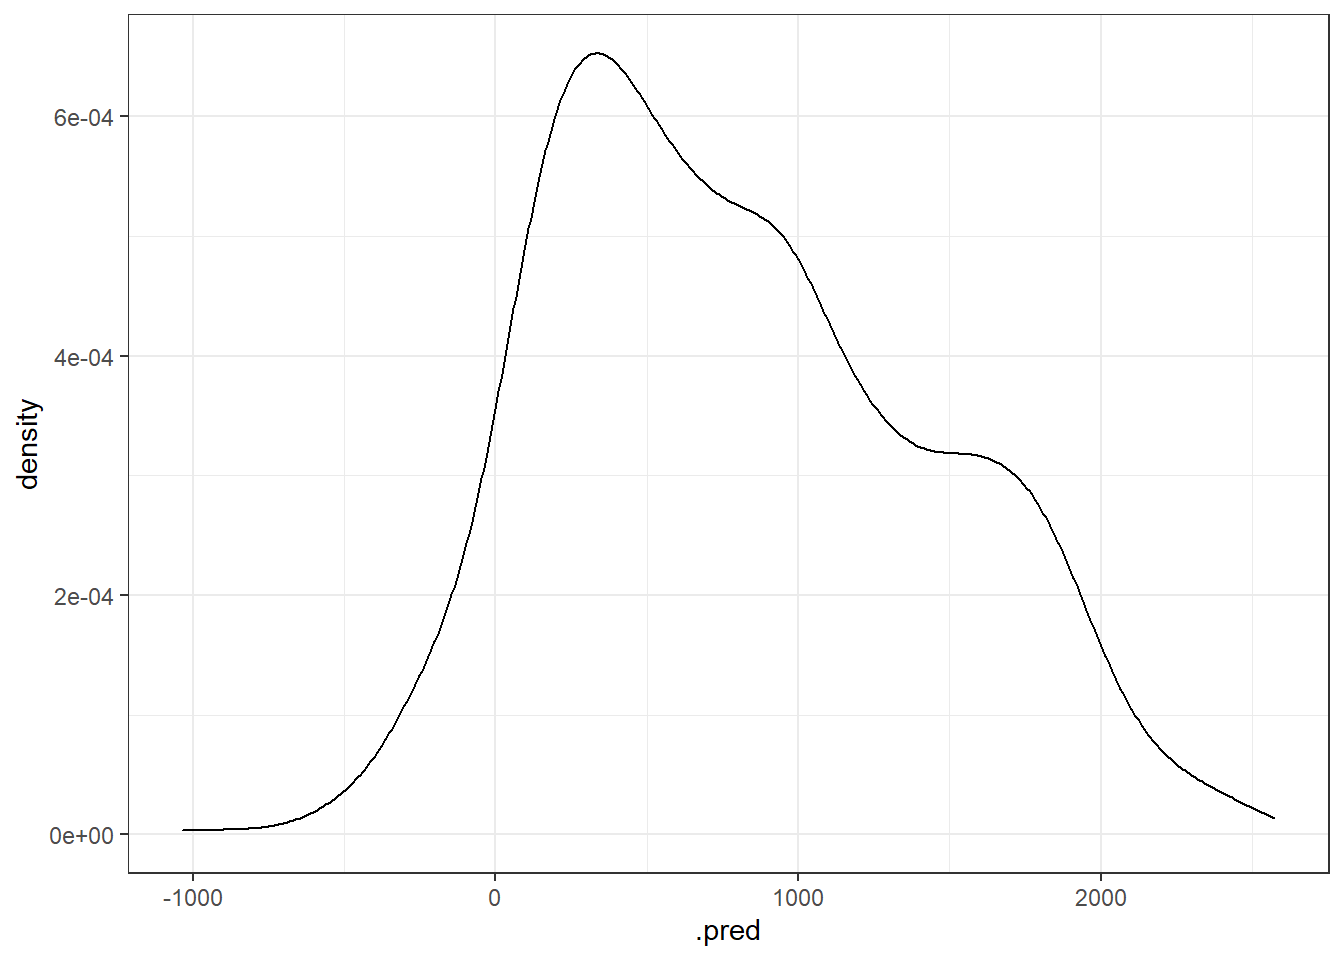
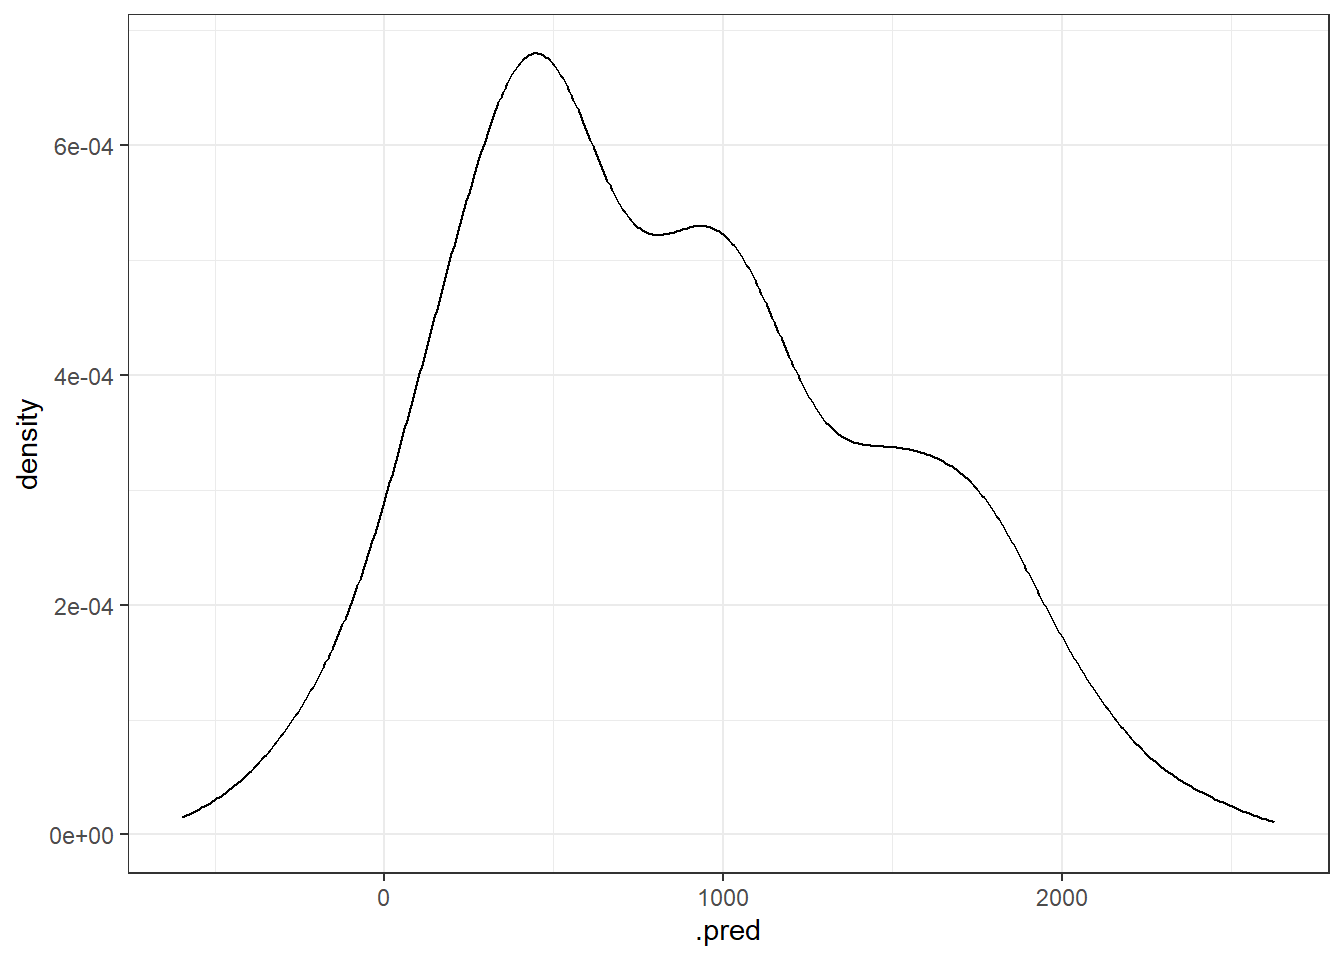
update

diff --git a/content/post/coding-warmup-3/index.html b/content/post/coding-warmup-3/index.html
@@ -15,11 +15,54 @@ publishdate: 2023-01-26
 <ul>
 <li>Graph and regress sale price against gross square feet interpret the results</li>
 </ul>
+<pre class="r"><code>sale_df &lt;- read_csv(&quot;https://raw.githubusercontent.com/DataScienceForPublicPolicy/diys/main/data/home_sales_nyc.csv&quot;)
+
+ggplot(data = sale_df, aes(x = gross.square.feet, y = sale.price)) +
+  geom_point(alpha = 0.15,
+             size = 1.2,
+             colour = &quot;blue&quot;) +
+  scale_x_continuous(&quot;Property size (gross square feet)&quot;, labels = scales::comma) +
+  scale_y_continuous(&quot;Sale price (USD)&quot;, labels = scales::comma) </code></pre>
+<p><img src="{{< blogdown/postref >}}index_files/figure-html/unnamed-chunk-1-1.png" width="672" /></p>
+<pre class="r"><code>reg_est &lt;- lm(sale.price ~ gross.square.feet, data = sale_df)
+
+summary(reg_est)</code></pre>
+<pre><code>## 
+## Call:
+## lm(formula = sale.price ~ gross.square.feet, data = sale_df)
+## 
+## Residuals:
+##      Min       1Q   Median       3Q      Max 
+## -1700116  -212264   -44958   138638  8661923 
+## 
+## Coefficients:
+##                     Estimate Std. Error t value Pr(&gt;|t|)    
+## (Intercept)       -42584.389  11534.260  -3.692 0.000223 ***
+## gross.square.feet    466.176      7.097  65.684  &lt; 2e-16 ***
+## ---
+## Signif. codes:  0 &#39;***&#39; 0.001 &#39;**&#39; 0.01 &#39;*&#39; 0.05 &#39;.&#39; 0.1 &#39; &#39; 1
+## 
+## Residual standard error: 463900 on 12666 degrees of freedom
+## Multiple R-squared:  0.2541,	Adjusted R-squared:  0.254 
+## F-statistic:  4314 on 1 and 12666 DF,  p-value: &lt; 2.2e-16</code></pre>
 </div>
 <div id="part-2" class="section level1">
 <h1>Part 2</h1>
 <p>Reproduce this figure from <a href="https://www.tmwr.org/base-r.html#tidiness-modeling">tidymodels 3.3</a>
 <img src="images/corr-plot-1.svg" /> with the data from Part 1 replacing mpg with sale price for numeric variables.</p>
+<pre class="r"><code>corr_res &lt;- map(sale_df %&gt;% 
+                  select(where(is.numeric), -c(sale.price, borough, zip.code)), 
+                cor.test, 
+                y=sale_df$sale.price)
+corr_res %&gt;% 
+  map_dfr(broom::tidy, .id = &quot;predictor&quot;) %&gt;% 
+  ggplot(aes(x = fct_reorder(predictor, estimate))) + 
+  geom_point(aes(y = estimate)) + 
+  geom_errorbar(aes(ymin = conf.low, ymax = conf.high), width = .1) +
+  labs(x = NULL, y = &quot;Correlation with sale price&quot;) +
+  theme_bw() +
+  coord_flip()</code></pre>
+<p><img src="{{< blogdown/postref >}}index_files/figure-html/unnamed-chunk-2-1.png" width="672" /></p>
 </div>
 <div id="part-3" class="section level1">
 <h1>Part 3</h1>
@@ -32,8 +75,203 @@ publishdate: 2023-01-26
 <li>Model 3 (mod3) incorporates an interaction to estimate borough-specific slopes for building area</li>
 <li>Model 4 (mod4) adds land area</li>
 </ul>
+<pre class="r"><code>library(gridExtra)
+# Simple regression
+mod1 &lt;- lm(sale.price ~ gross.square.feet,
+           data = sale_df)
+# With borough
+mod2 &lt;- lm(sale.price ~ gross.square.feet + factor(borough),
+           data = sale_df)
+# Interaction
+mod3 &lt;- lm(sale.price ~ gross.square.feet * factor(borough),
+           data = sale_df)
+# With Additional variables
+mod4 &lt;-
+  lm(sale.price ~ gross.square.feet * factor(borough) + land.square.feet + age,
+     data = sale_df)
+
+sale_df &lt;- sale_df %&gt;% mutate(quarter = lubridate::floor_date(sale.date, &#39;quarter&#39;))
+
+mod5 &lt;- lm(sale.price ~ gross.square.feet * factor(borough) + land.square.feet + age + factor(quarter),
+     data = sale_df)
+
+#Base
+base1 &lt;-
+  ggplot(sale_df, aes(x = gross.square.feet, y = sale.price / 1000000)) +
+  geom_point(colour = rgb(0, 0, 0, 0.1), size = 0.8) +
+  geom_point(
+    aes(x = sale_df$gross.square.feet, y = predict(mod1) / 1000000),
+    colour = rgb(1, 0, 0, 0.2),
+    size = 0.6
+  ) +
+  xlab(&quot;Gross Square Feet&quot;) + ylab(&quot;Sales Price ($MM)&quot;) +
+  ggtitle(paste0(&quot;Model 1 (BIC = &quot;, round(BIC(mod1)), &quot;)&quot;)) +
+  xlim(0, 3000) + ylim(0, 3)
+
+#Base2
+base2 &lt;-
+  ggplot(sale_df, aes(x = gross.square.feet, y = sale.price / 1000000)) +
+  geom_point(colour = rgb(0, 0, 0, 0.1), size = 0.8) +
+  geom_point(
+    aes(x = sale_df$gross.square.feet, y = predict(mod2) / 1000000),
+    colour = rgb(1, 0, 0, 0.2),
+    size = 0.6
+  ) +
+  xlab(&quot;Gross Square Feet&quot;) + ylab(&quot;Sales Price ($MM)&quot;) +
+  ggtitle(paste0(&quot;Model 2 (BIC = &quot;, round(BIC(mod2)), &quot;)&quot;)) +
+  xlim(0, 3000) + ylim(0, 3)
+
+#Base3
+base3 &lt;-
+  ggplot(sale_df, aes(x = gross.square.feet, y = sale.price / 1000000)) +
+  geom_point(colour = rgb(0, 0, 0, 0.1), size = 0.8) +
+  geom_point(
+    aes(x = sale_df$gross.square.feet, y = predict(mod3) / 1000000),
+    colour = rgb(1, 0, 0, 0.2),
+    size = 0.6
+  ) +
+  xlab(&quot;Gross Square Feet&quot;) + ylab(&quot;Sales Price ($MM)&quot;) +
+  ggtitle(paste0(&quot;Model 3 (BIC = &quot;, round(BIC(mod3)), &quot;)&quot;)) +
+  xlim(0, 3000) + ylim(0, 3)
+
+#Base4
+base4 &lt;-
+  ggplot(sale_df, aes(x = gross.square.feet, y = sale.price / 1000000)) +
+  geom_point(colour = rgb(0, 0, 0, 0.1), size = 0.8) +
+  geom_point(
+    aes(x = sale_df$gross.square.feet, y = predict(mod4) / 1000000),
+    colour = rgb(1, 0, 0, 0.2),
+    size = 0.6
+  ) +
+  xlab(&quot;Gross Square Feet&quot;) + ylab(&quot;Sales Price ($MM)&quot;) +
+  ggtitle(paste0(&quot;Model 4 (BIC = &quot;, round(BIC(mod4)), &quot;)&quot;)) +
+  xlim(0, 3000) + ylim(0, 3)
+
+grid.arrange(base1, base2, base3, base4, ncol = 2)</code></pre>
+<p><img src="{{< blogdown/postref >}}index_files/figure-html/unnamed-chunk-3-1.png" width="672" /></p>
+<pre class="r"><code>broom::glance(mod5)</code></pre>
+<pre><code>## # A tibble: 1 × 12
+##   r.squared adj.r.s…¹  sigma stati…² p.value    df  logLik    AIC    BIC devia…³
+##       &lt;dbl&gt;     &lt;dbl&gt;  &lt;dbl&gt;   &lt;dbl&gt;   &lt;dbl&gt; &lt;dbl&gt;   &lt;dbl&gt;  &lt;dbl&gt;  &lt;dbl&gt;   &lt;dbl&gt;
+## 1     0.489     0.489 3.84e5    808.       0    15 -1.81e5 3.62e5 3.62e5 1.87e15
+## # … with 2 more variables: df.residual &lt;int&gt;, nobs &lt;int&gt;, and abbreviated
+## #   variable names ¹adj.r.squared, ²statistic, ³deviance</code></pre>
+<pre class="r"><code>broom::tidy(mod5)</code></pre>
+<pre><code>## # A tibble: 16 × 5
+##    term                                 estimate std.error statistic  p.value
+##    &lt;chr&gt;                                   &lt;dbl&gt;     &lt;dbl&gt;     &lt;dbl&gt;    &lt;dbl&gt;
+##  1 (Intercept)                          794057.  192345.      4.13   3.68e- 5
+##  2 gross.square.feet                      1032.      56.4    18.3    9.11e-74
+##  3 factor(borough)2                    -652250.  194929.     -3.35   8.22e- 4
+##  4 factor(borough)3                   -1098488.  192639.     -5.70   1.21e- 8
+##  5 factor(borough)4                    -611850.  192018.     -3.19   1.44e- 3
+##  6 factor(borough)5                    -596887.  192362.     -3.10   1.92e- 3
+##  7 land.square.feet                         37.3      1.86   20.1    3.31e-88
+##  8 age                                    -721.     154.     -4.69   2.71e- 6
+##  9 factor(quarter)2017-10-01               431.   13121.      0.0329 9.74e- 1
+## 10 factor(quarter)2018-01-01              3506.   13441.      0.261  7.94e- 1
+## 11 factor(quarter)2018-04-01              8800.   13278.      0.663  5.07e- 1
+## 12 factor(quarter)2018-07-01             52101.   14444.      3.61   3.11e- 4
+## 13 gross.square.feet:factor(borough)2     -866.      60.4   -14.3    3.18e-46
+## 14 gross.square.feet:factor(borough)3     -291.      57.8    -5.04   4.76e- 7
+## 15 gross.square.feet:factor(borough)4     -761.      57.4   -13.3    7.37e-40
+## 16 gross.square.feet:factor(borough)5     -890.      57.6   -15.4    2.58e-53</code></pre>
 </div>
 <div id="part-4" class="section level1">
 <h1>Part 4</h1>
 <p>In the class divvy example (see the lectures page for code/files), we had a lot of missing values in our data. We also didn’t have a very rigorous treatment of time/seasonality. Explore how impactful these issues are by creating a few different models and comparing the predictions using the workflows we saw from class in rsample (splitting data), parsnip (linear_reg, set_engine, set_mode, fit), yardstick (mape, rmse), and broom (augment).</p>
+<pre class="r"><code>divvy_data &lt;- read_csv(&#39;https://github.com/erhla/pa470spring2023/raw/main/static/lectures/week_3_data.csv&#39;)
+
+# split data
+
+grouped &lt;- rsample::initial_split(divvy_data)
+train &lt;- training(grouped)
+test  &lt;- testing(grouped)
+
+# create parsnip model
+
+lm_model &lt;-
+  parsnip::linear_reg() %&gt;%
+  set_engine(&quot;lm&quot;) %&gt;%
+  set_mode(&#39;regression&#39;) %&gt;%
+  fit(rides ~ solar_rad + factor(hour(started_hour)) + 
+           factor(wday(started_hour)) +
+           factor(month(started_hour)) +
+           temp + wind + interval_rain + avg_speed, data=train)
+
+# predict and augment
+
+preds &lt;- 
+  predict(lm_model, test %&gt;% filter(month(started_hour) &gt;= 5)) 
+
+test_preds &lt;- lm_model %&gt;% 
+  augment(test %&gt;% filter(month(started_hour) &gt;=5))
+
+# evaluate
+
+yardstick::mape(test_preds, 
+     truth = rides,
+     estimate = .pred)</code></pre>
+<pre><code>## # A tibble: 1 × 3
+##   .metric .estimator .estimate
+##   &lt;chr&gt;   &lt;chr&gt;          &lt;dbl&gt;
+## 1 mape    standard        121.</code></pre>
+<pre class="r"><code>yardstick::rmse(test_preds, 
+     truth = rides,
+     estimate = .pred)</code></pre>
+<pre><code>## # A tibble: 1 × 3
+##   .metric .estimator .estimate
+##   &lt;chr&gt;   &lt;chr&gt;          &lt;dbl&gt;
+## 1 rmse    standard        351.</code></pre>
+<pre class="r"><code>ggplot(test_preds, aes(x=.pred)) +
+  geom_density()</code></pre>
+<p><img src="{{< blogdown/postref >}}index_files/figure-html/unnamed-chunk-4-1.png" width="672" /></p>
+<pre class="r"><code>divvy_data &lt;- divvy_data %&gt;%
+  mutate(
+    day = floor_date(started_hour, &#39;day&#39;),
+    bad_weather = if_else(solar_rad &lt;= 5 &amp; temp &lt;= 5, 1, 0),
+    nice_weather = if_else(solar_rad &gt;= 25 &amp; temp &gt;= 15, 1, 0)
+  )
+
+total_rain &lt;- divvy_data %&gt;% group_by(
+  day
+) %&gt;% summarize(total_precip = sum(interval_rain, na.rm=T))
+
+divvy_data &lt;- divvy_data %&gt;% left_join(total_rain) %&gt;%
+  mutate(rainy_weather = if_else(total_precip &gt; 0, 1, 0))
+
+grouped &lt;- rsample::initial_split(divvy_data)
+train &lt;- training(grouped)
+test  &lt;- testing(grouped)
+
+lm_model &lt;-
+  parsnip::linear_reg() %&gt;%
+  set_engine(&quot;lm&quot;) %&gt;%
+  fit(rides ~ solar_rad + factor(hour(started_hour)) + 
+        factor(nice_weather) + factor(bad_weather) + factor(rainy_weather) +
+        temp + avg_speed, data=train)
+
+preds &lt;- 
+  predict(lm_model, test %&gt;% filter(month(started_hour) &gt;= 5)) 
+
+test_preds &lt;- lm_model %&gt;% 
+  augment(test %&gt;% filter(month(started_hour) &gt;=5))
+
+yardstick::mape(test_preds, 
+     truth = rides,
+     estimate = .pred)</code></pre>
+<pre><code>## # A tibble: 1 × 3
+##   .metric .estimator .estimate
+##   &lt;chr&gt;   &lt;chr&gt;          &lt;dbl&gt;
+## 1 mape    standard        97.0</code></pre>
+<pre class="r"><code>yardstick::rmse(test_preds, 
+     truth = rides,
+     estimate = .pred)</code></pre>
+<pre><code>## # A tibble: 1 × 3
+##   .metric .estimator .estimate
+##   &lt;chr&gt;   &lt;chr&gt;          &lt;dbl&gt;
+## 1 rmse    standard        357.</code></pre>
+<pre class="r"><code>ggplot(test_preds, aes(x=.pred)) +
+  geom_density()</code></pre>
+<p><img src="{{< blogdown/postref >}}index_files/figure-html/unnamed-chunk-5-1.png" width="672" /></p>
 </div>

diff --git a/content/post/detroit-part-2/index.html b/content/post/detroit-part-2/index.html
@@ -1,9 +1,9 @@
 ---
 title: "Detroit Part 2"
-date: 2023-02-09
+date: 2023-02-23
 categories: ["R"]
 tags: ["detroit"]
-publishdate: 2023-02-02
+publishdate: 2023-02-16
 ---
 
 

diff --git a/content/post/detroit-part-3/index.html b/content/post/detroit-part-3/index.html
@@ -1,9 +1,9 @@
 ---
 title: "Detroit Part 3"
-date: 2023-02-09
+date: 2023-03-16
 categories: ["R"]
 tags: ["detroit"]
-publishdate: 2023-02-02
+publishdate: 2023-03-09
 ---
 
 

diff --git a/content/post/detroit-part-4/index.html b/content/post/detroit-part-4/index.html
@@ -1,9 +1,9 @@
 ---
 title: "Detroit Part 4"
-date: 2023-02-09
+date: 2023-03-30
 categories: ["R"]
 tags: ["detroit"]
-publishdate: 2023-02-02
+publishdate: 2023-03-23
 ---
 
 
